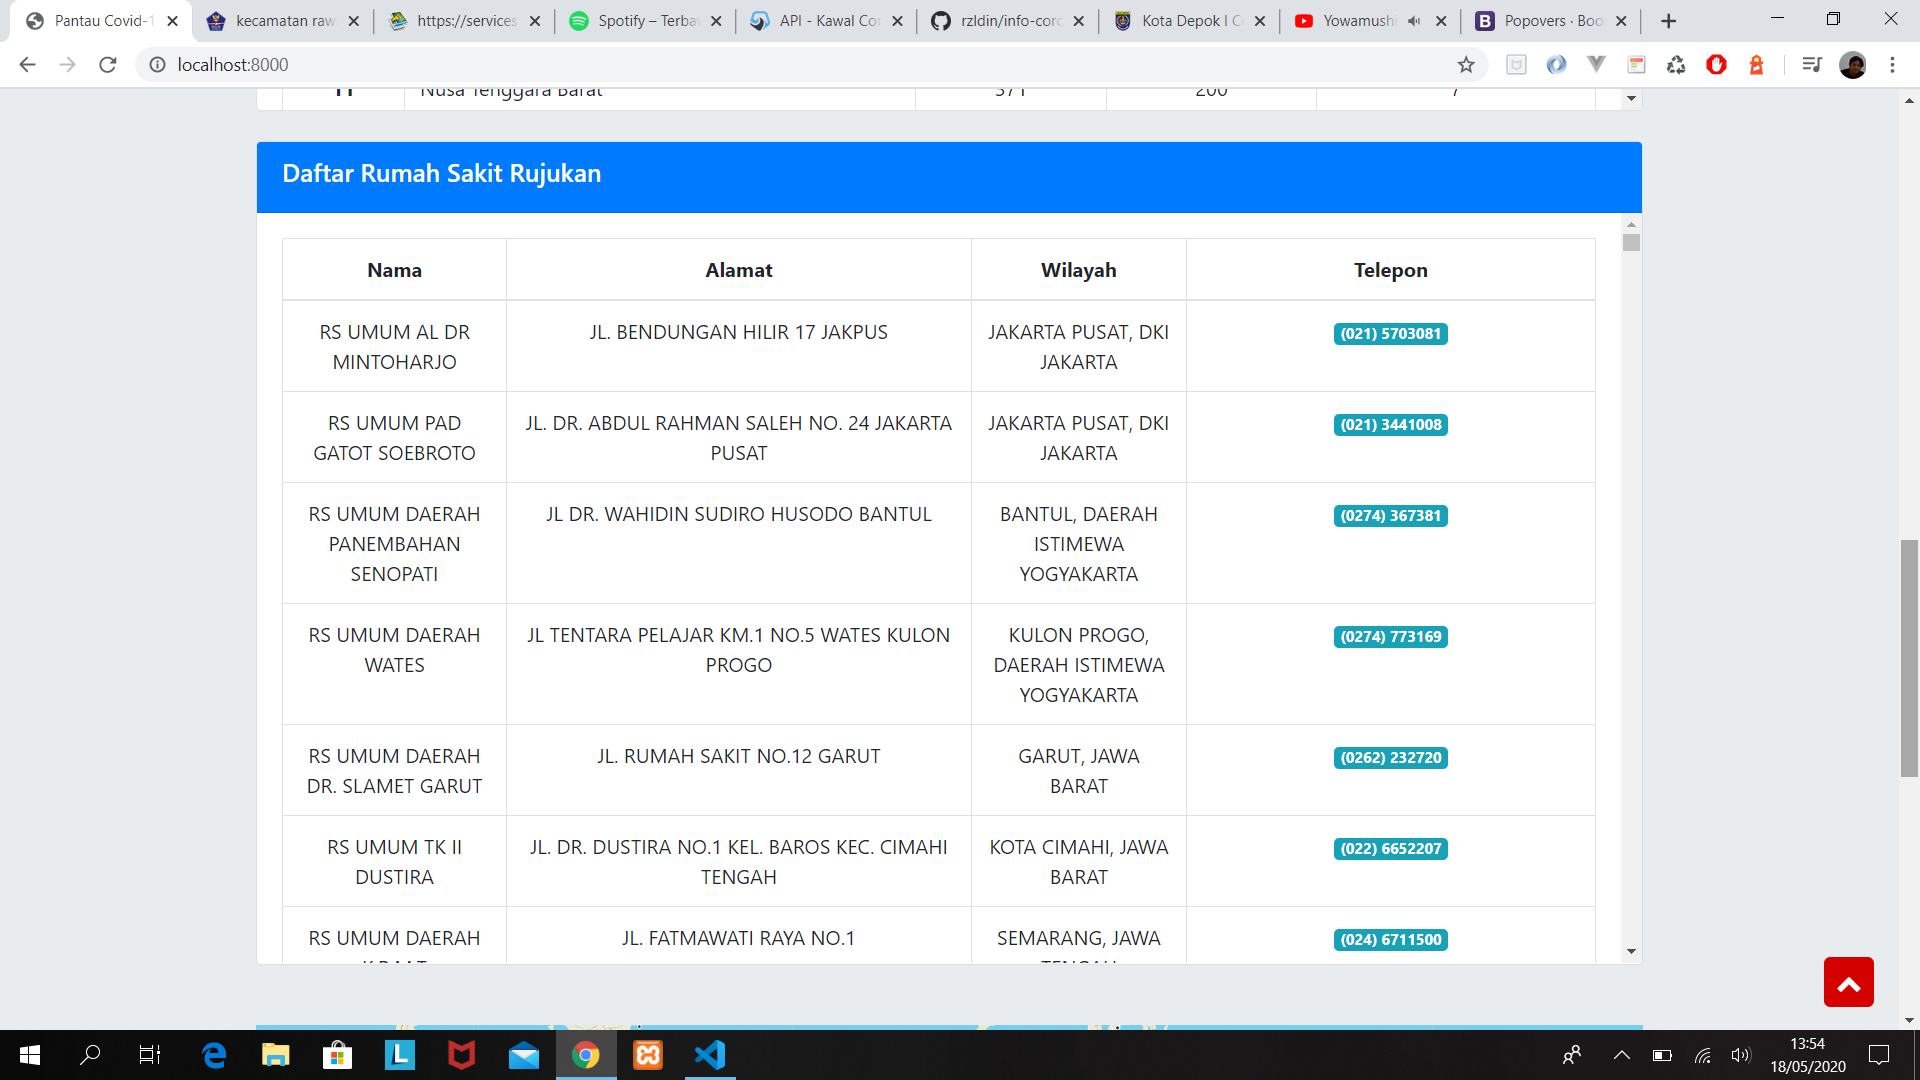
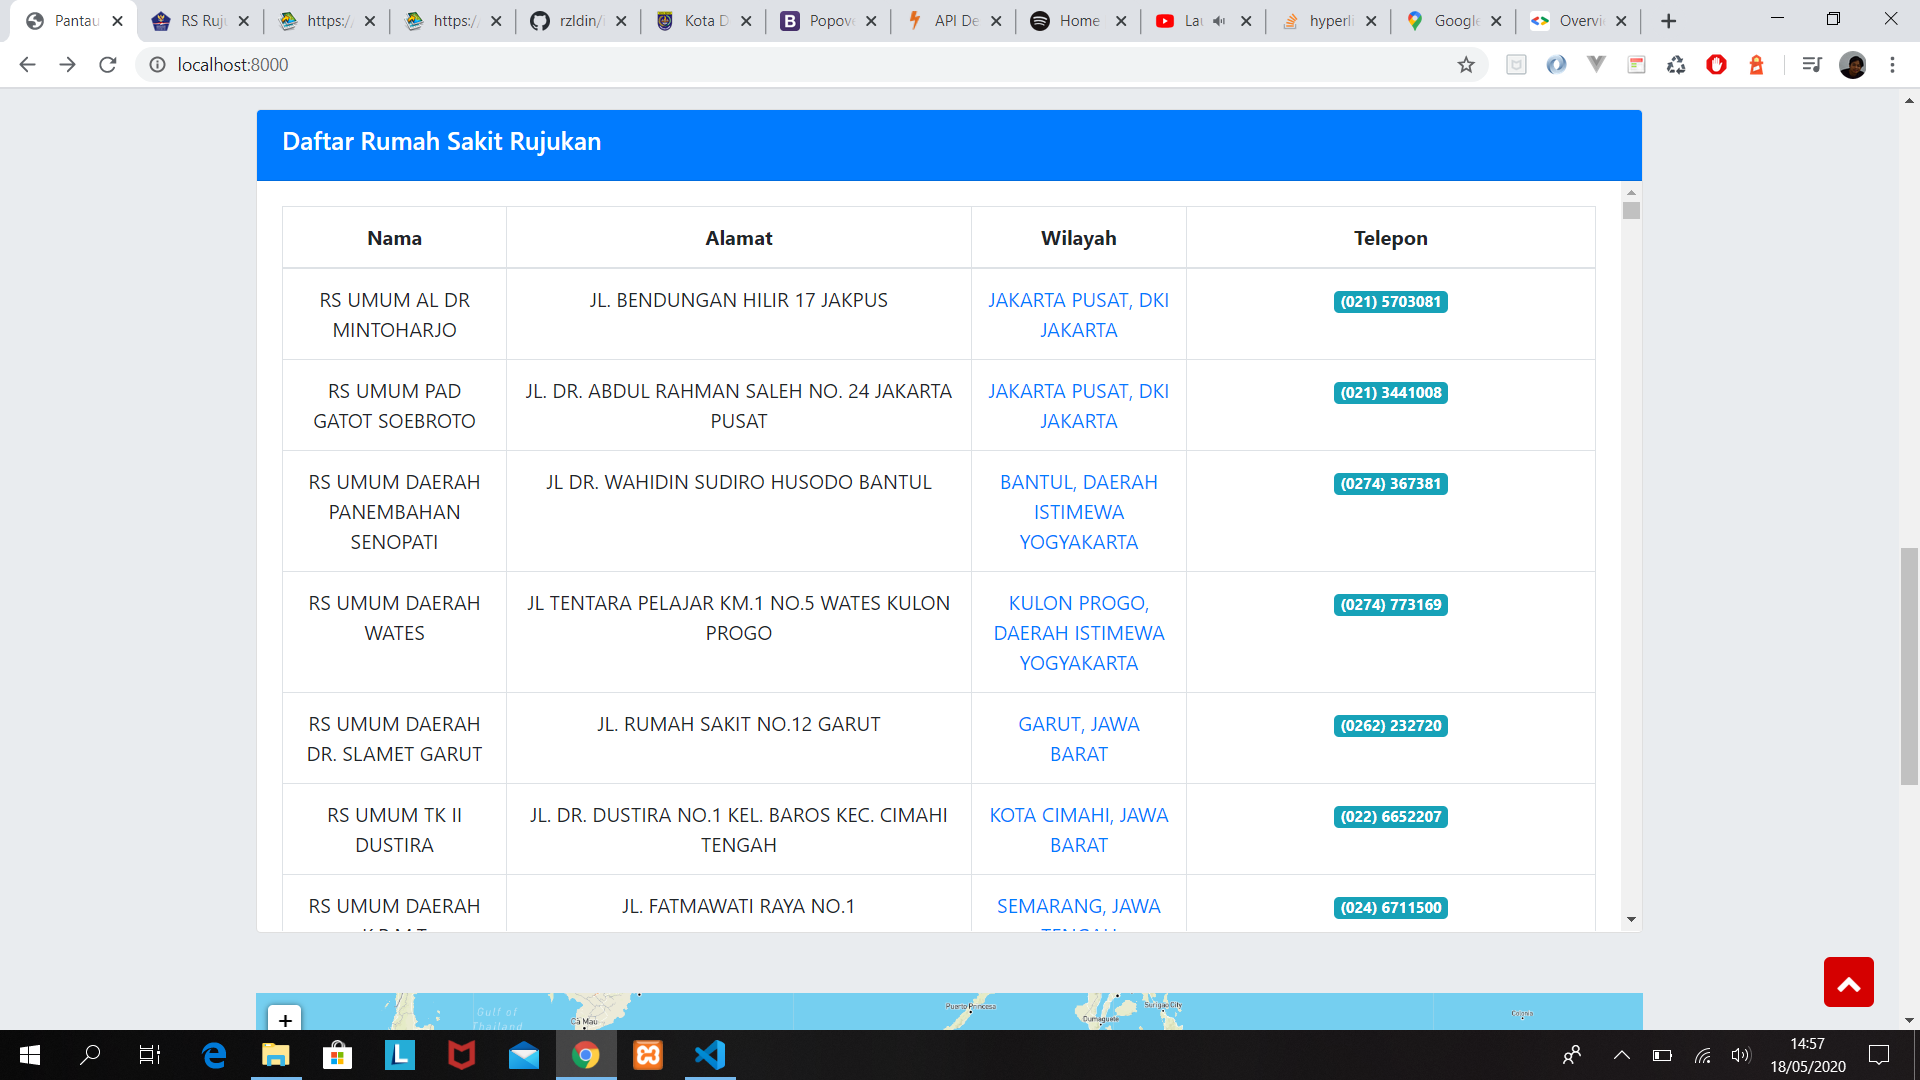
map rumah sakit

diff --git a/resources/views/index.blade.php b/resources/views/index.blade.php
@@ -257,7 +257,7 @@
                       <tr>
                         <td class="text-center" colspan="3">${data.attributes.nama}</td>
                         <td class="text-center">${data.attributes.alamat}</td>
-                        <td class="text-center">${data.attributes.wilayah}</td>
+                        <td class="text-center"><a href="https://maps.google.com/?ll=${data.attributes.lat},${data.attributes.lon}" style="text-decoration:none;">${data.attributes.wilayah}</a></td>
                         <td class="text-center"><a href="tel:${data.attributes.telepon}"><h4 class="badge badge-info">${data.attributes.telepon}</h4></a></td>
                       </tr>`);
             });
@@ -282,9 +282,9 @@
             $.each(json, function (i, data){
               L.marker([`${data.geometry.y}`, `${data.geometry.x}`]).addTo(mymap)
               .bindPopup(`<b>Provinsi :</b> ${data.attributes.Provinsi}<br>
-                          <b>Positif :</b> ${data.attributes.Kasus_Posi}<br>
-                          <b>Sembuh :</b> ${data.attributes.Kasus_Semb}<br>
-                          <b>Meninggal : </b> ${data.attributes.Kasus_Meni}`).openPopup();
+                          <b>Positif :</b> ${numeral(data.attributes.Kasus_Posi).format('0,0')}<br>
+                          <b>Sembuh :</b> ${numeral(data.attributes.Kasus_Semb).format('0,0')}<br>
+                          <b>Meninggal : </b> ${numeral(data.attributes.Kasus_Meni).format('0,0')}`).openPopup();
             });
           });
         };
